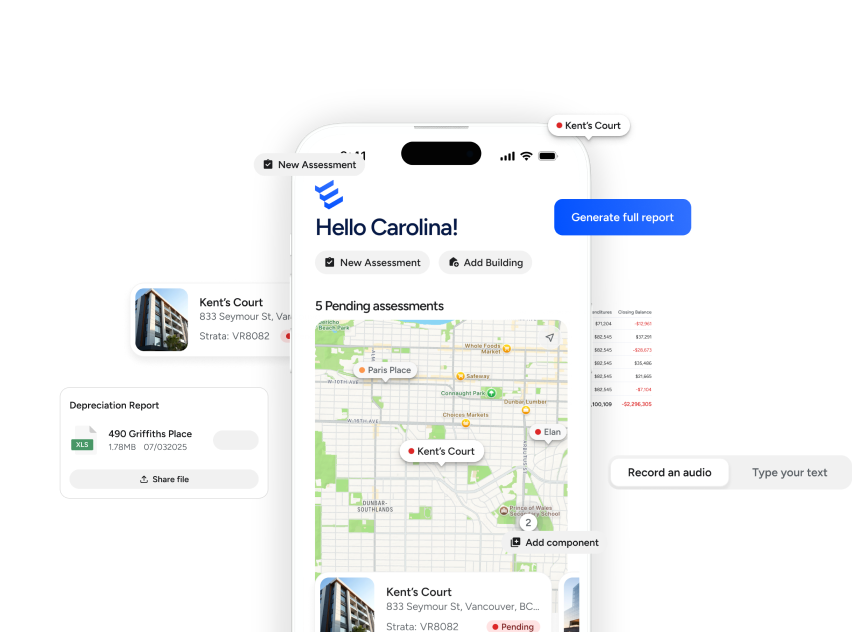
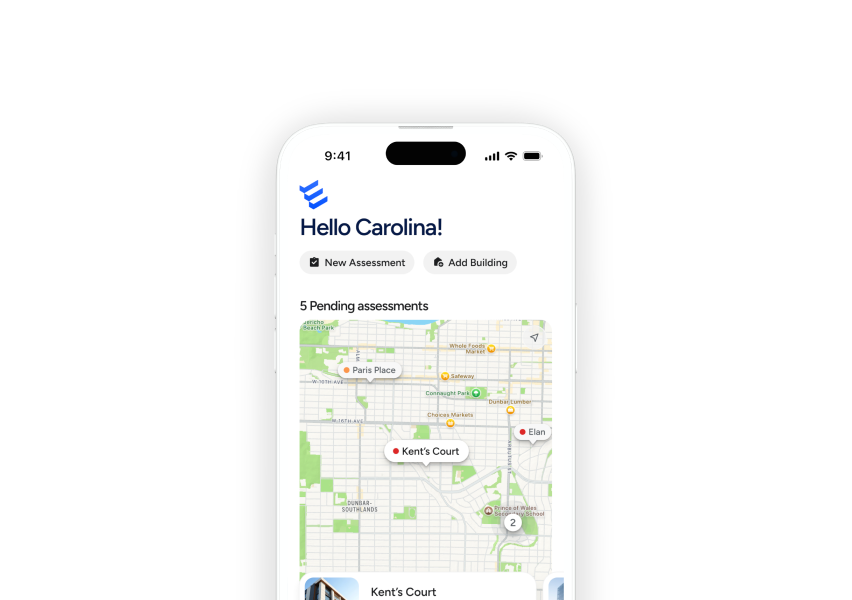
Adding floating animation on hero section

diff --git a/src/components/Hero.tsx b/src/components/Hero.tsx
@@ -54,11 +54,15 @@ Work smarter.</p>
         </div>
       </div>
       
-      <div className={cn("flex items-center justify-end w-full overflow-hidden transition-all duration-700", isLoaded ? "opacity-100 translate-y-0" : "opacity-0 translate-y-4")} style={{
+      <div className={cn("flex items-start justify-center w-full overflow-hidden transition-all duration-700", isLoaded ? "opacity-100 translate-y-0" : "opacity-0 translate-y-4")} style={{
         transitionDelay: '400ms'
       }}>
-        <div className="flex mx-auto">
-          <img src="src/assets/ImageTopHero.png" alt="AI Icon" className="w-auto h-auto max-w-full max-h-full mb-[-10px] object-contain animate-float" />
+        <div className="relative flex mx-auto">
+          <img src="src/assets/floating_3.png" alt="AI Icon" className="absolute x-0 y-0 w-auto h-auto max-w-full max-h-full mb-[-10px] object-contain animate-float delay-500" />
+          <img src="src/assets/floating_2.png" alt="AI Icon" className="absolute x-0 y-0 w-auto h-auto max-w-full max-h-full mb-[-10px] object-contain animate-float delay-200 z-20" />
+          <img src="src/assets/ImageTopHero.png" alt="AI Icon" className="w-auto h-auto max-w-full max-h-full mb-[-10px] object-contain animate-float z-10" />
+          <img src="src/assets/floating_1.png" alt="AI Icon" className="absolute x-0 y-0 w-auto h-auto max-w-full max-h-full mb-[-10px] object-contain animate-float delay-600" />
+          <img src="src/assets/floating_0.png" alt="AI Icon" className="absolute x-0 y-0 w-auto h-auto max-w-full max-h-full mb-[-10px] object-contain animate-float delay-1000" />
         </div>
       </div>
     </section>;
